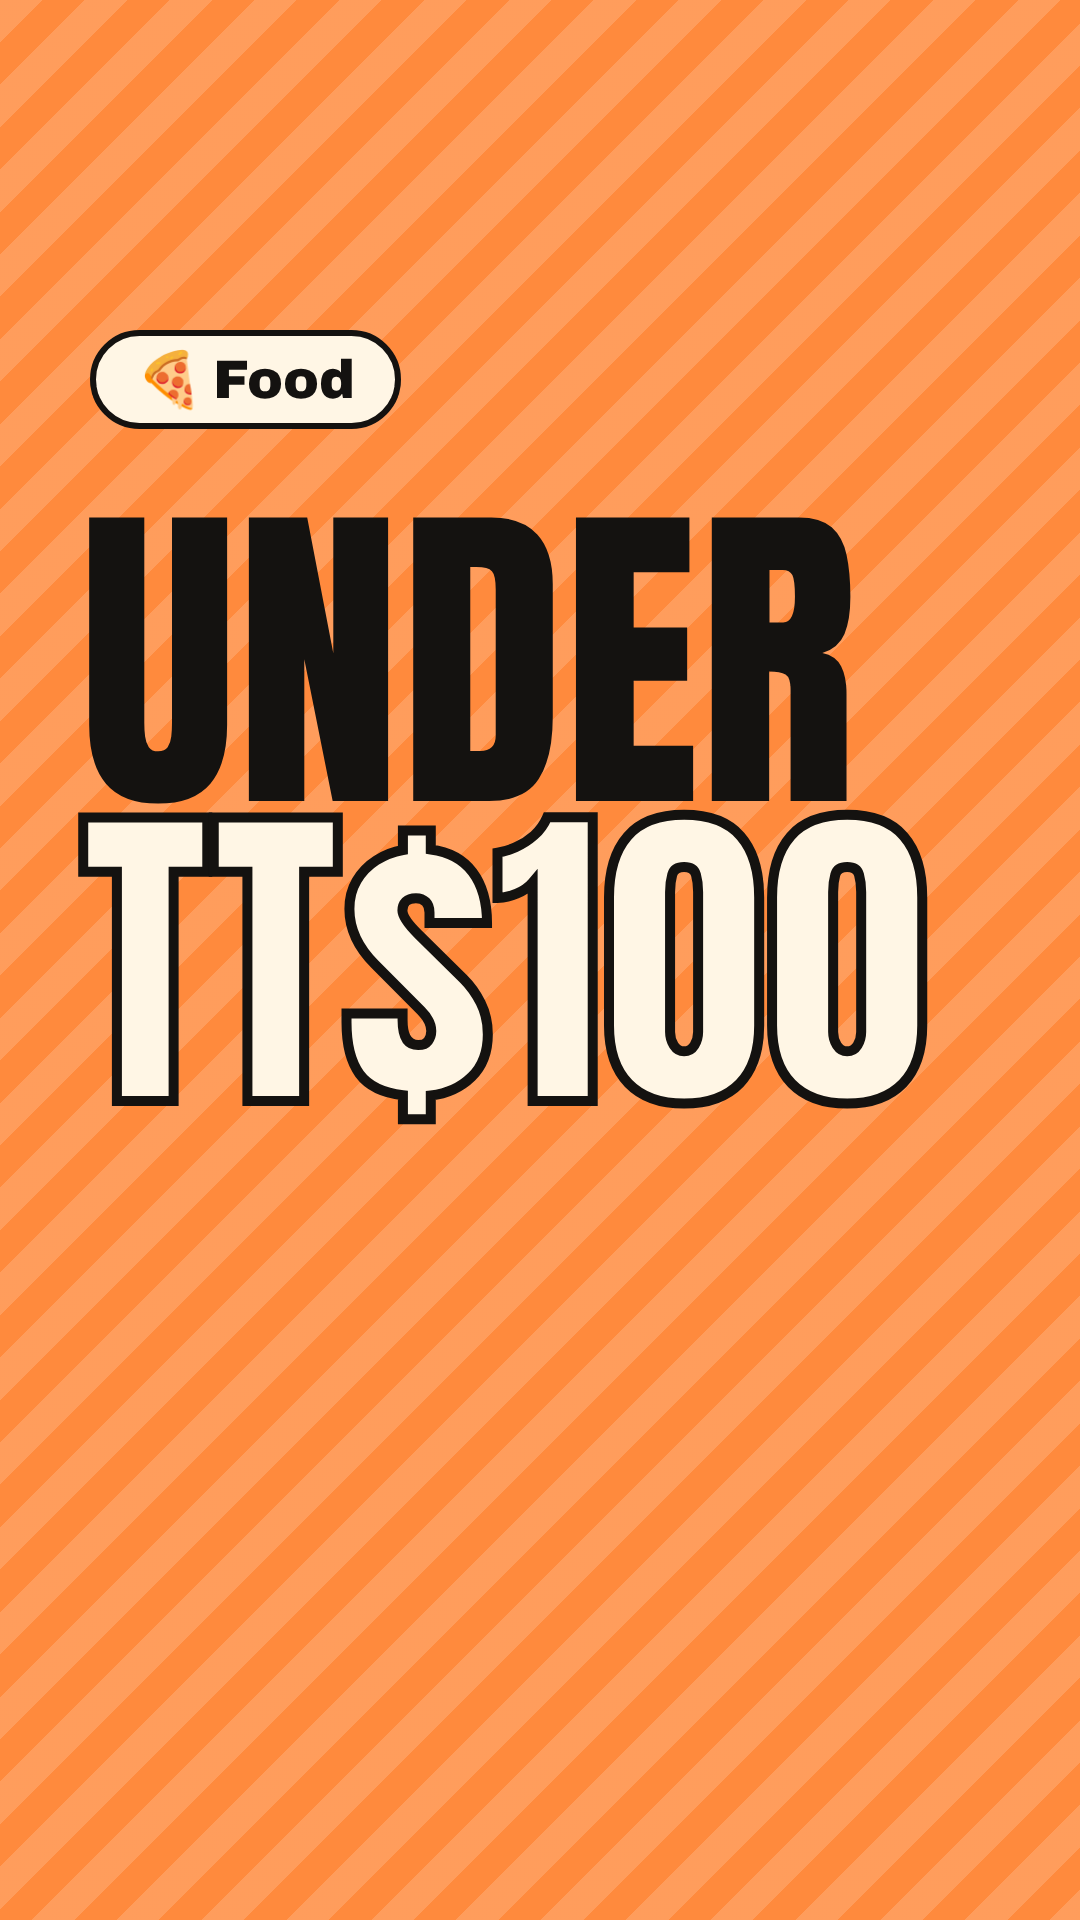
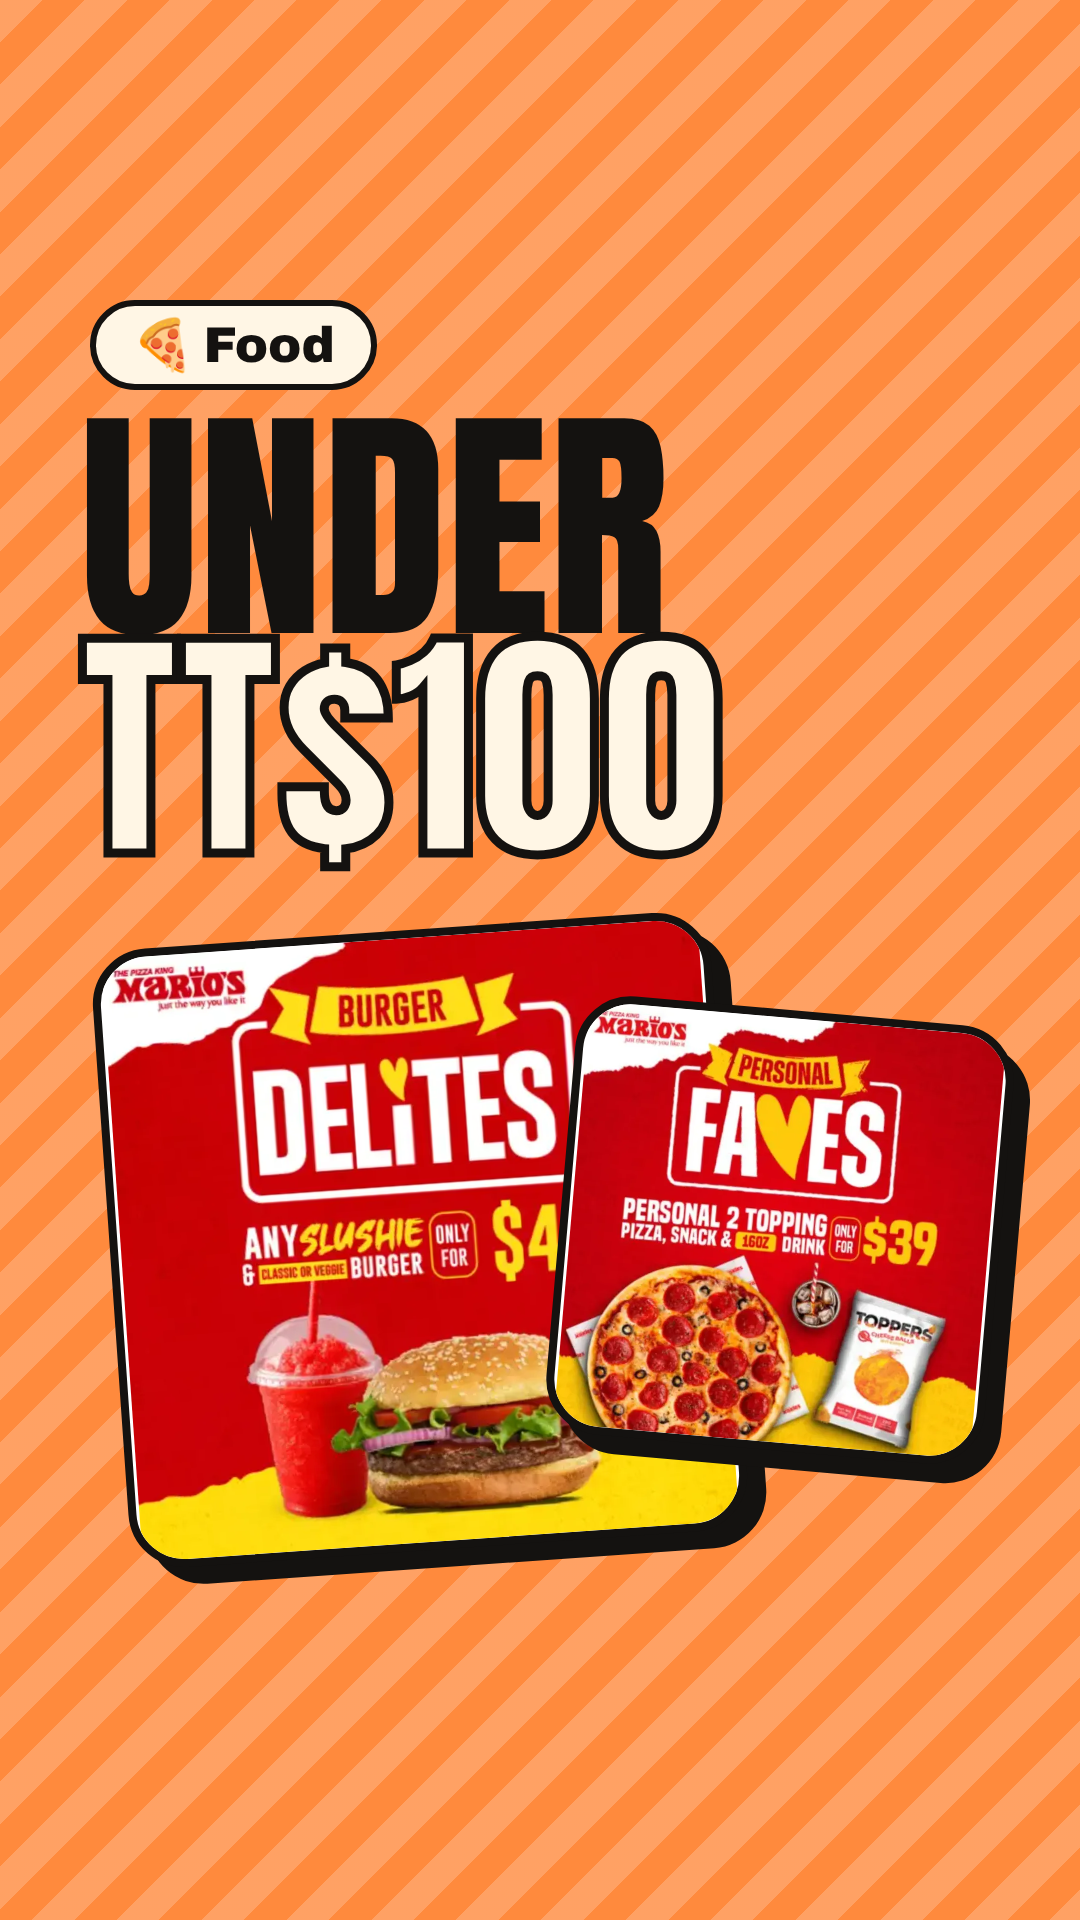
Reel cover photos for the Courts and food reels
Claude-Session: https://claude.ai/code/session_01Mjnkah9xAmxkfAfrKW4dtD

diff --git a/social/reels/covers.html b/social/reels/covers.html
@@ -1,0 +1,29 @@
+<!doctype html><html><head><meta charset="utf-8">
+<link href="https://fonts.googleapis.com/css2?family=Anton&family=Archivo:wght@800;900&display=swap" rel="stylesheet">
+<style>
+*{box-sizing:border-box;margin:0}body{background:#888}
+.s{width:1080px;height:1920px;position:relative;overflow:hidden;font-family:Archivo,sans-serif;color:#141210;margin-bottom:20px}
+.abs{position:absolute}.d{font-family:Anton;text-transform:uppercase;line-height:.86}
+.chip{border:6px solid #141210;border-radius:999px;background:#FFF6E5;font-weight:900;font-size:50px;padding:10px 36px}
+.card{border:8px solid #141210;border-radius:56px;overflow:hidden;box-shadow:18px 18px 0 #141210;background:#fff}
+.card img{position:absolute;inset:0;width:100%;height:100%;object-fit:contain}.card img.f{object-fit:cover;filter:blur(30px);transform:scale(1.2);opacity:.6}
+.burst{width:300px;height:300px;background:#F0412F;color:#FFF6E5;display:grid;place-items:center;font-family:Anton;font-size:96px;transform:rotate(-10deg);
+ clip-path:polygon(50% 0%,60.35% 11.36%,75% 6.7%,78.28% 21.72%,93.3% 25%,88.64% 39.65%,100% 50%,88.64% 60.35%,93.3% 75%,78.28% 78.28%,75% 93.3%,60.35% 88.64%,50% 100%,39.65% 88.64%,25% 93.3%,21.72% 78.28%,6.7% 75%,11.36% 60.35%,0% 50%,11.36% 39.65%,6.7% 25%,21.72% 21.72%,25% 6.7%,39.65% 11.36%)}
+.stripes{background-image:repeating-linear-gradient(135deg,rgba(255,255,255,.2) 0 30px,transparent 30px 60px)}
+</style></head><body>
+<!-- Courts: text sits inside the middle 1080x1440 so the grid crop keeps it -->
+<div class="s stripes" id="courts" style="background-color:#FFC531">
+  <div class="abs chip" style="left:90px;top:300px">🛋 Shopping · Courts</div>
+  <div class="abs d" style="left:80px;top:420px;font-size:250px">Up to</div>
+  <div class="abs d" style="left:80px;top:640px;font-size:250px;white-space:nowrap;color:#FFF6E5;-webkit-text-stroke:9px #141210">45% off</div>
+  <div class="abs card" style="left:110px;top:930px;width:860px;height:620px;transform:rotate(-3deg)"><img class="f" src="file:///home/claude/repo/public/deals/courts/serta-divan.webp"><img src="file:///home/claude/repo/public/deals/courts/serta-divan.webp"></div>
+  <div class="abs burst" style="left:720px;top:1330px">-45%</div>
+</div>
+<div class="s stripes" id="food" style="background-color:#FF8A3D">
+  <div class="abs chip" style="left:90px;top:300px">🍕 Food</div>
+  <div class="abs d" style="left:80px;top:420px;font-size:250px">Under</div>
+  <div class="abs d" style="left:80px;top:640px;font-size:250px;white-space:nowrap;color:#FFF6E5;-webkit-text-stroke:9px #141210">TT$100</div>
+  <div class="abs card" style="left:110px;top:930px;width:620px;height:620px;transform:rotate(-4deg)"><img src="file:///home/claude/repo/public/deals/marios/MAR-001.webp"></div>
+  <div class="abs card" style="left:560px;top:1010px;width:440px;height:440px;transform:rotate(5deg)"><img src="file:///home/claude/repo/public/deals/marios/MAR-007.webp"></div>
+</div>
+</body></html>
